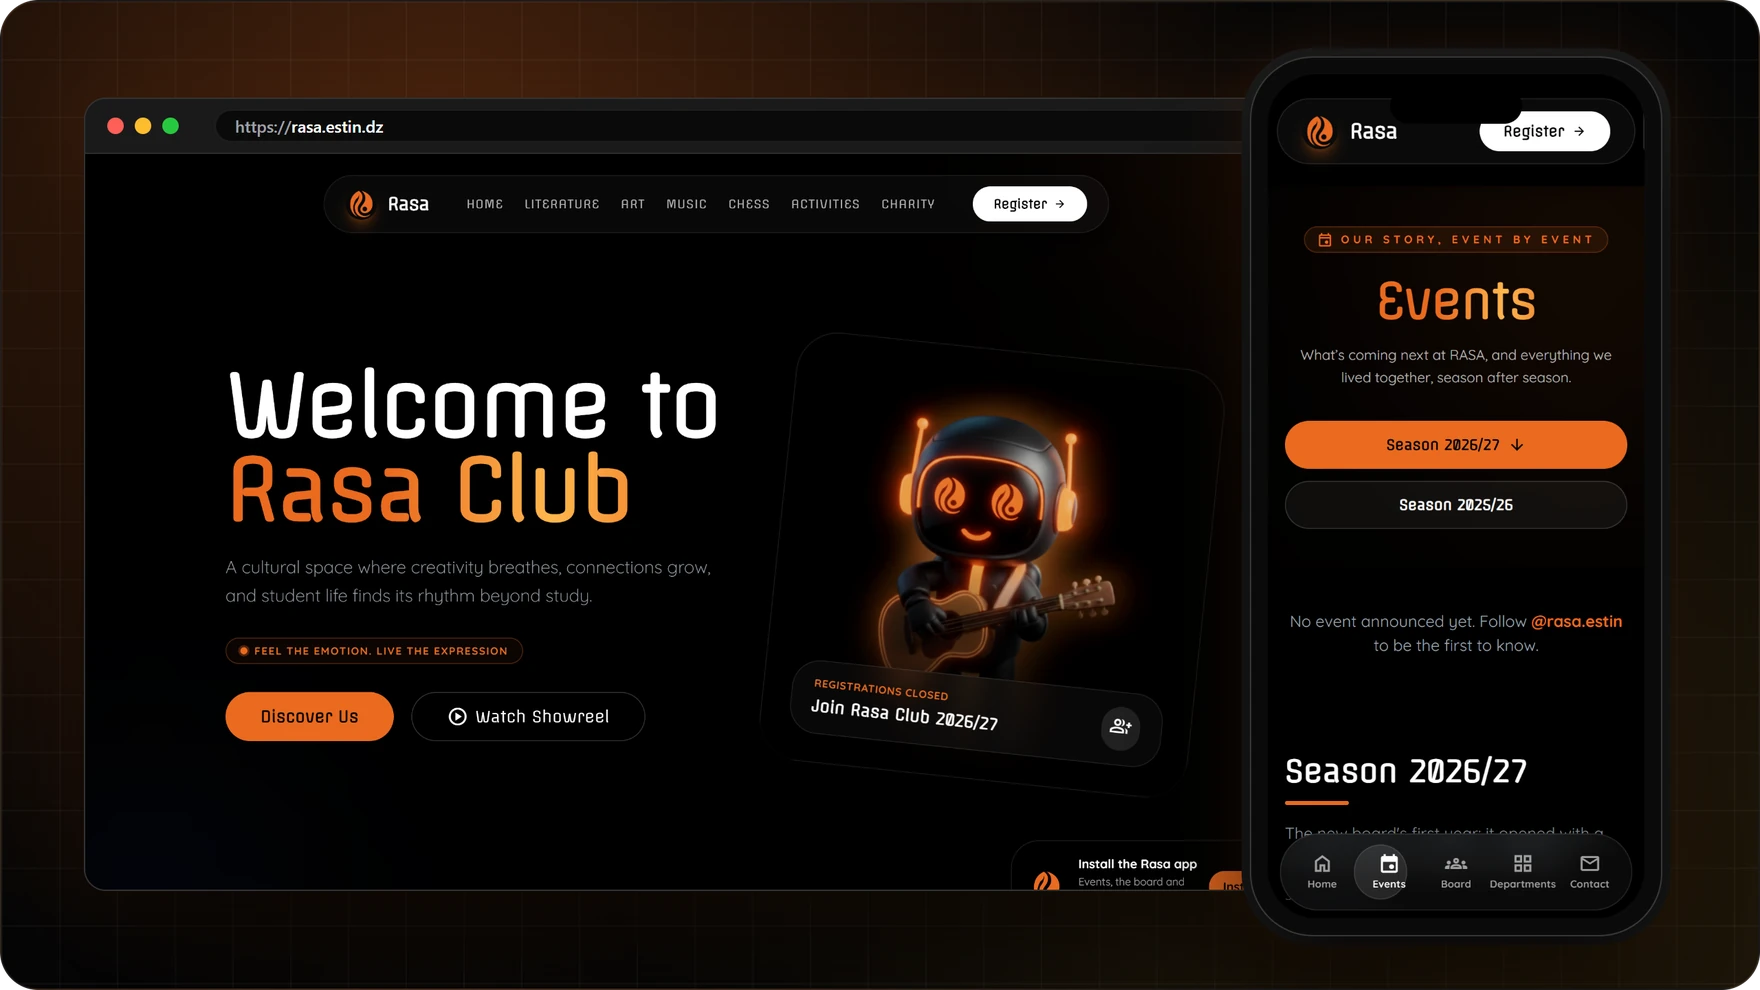
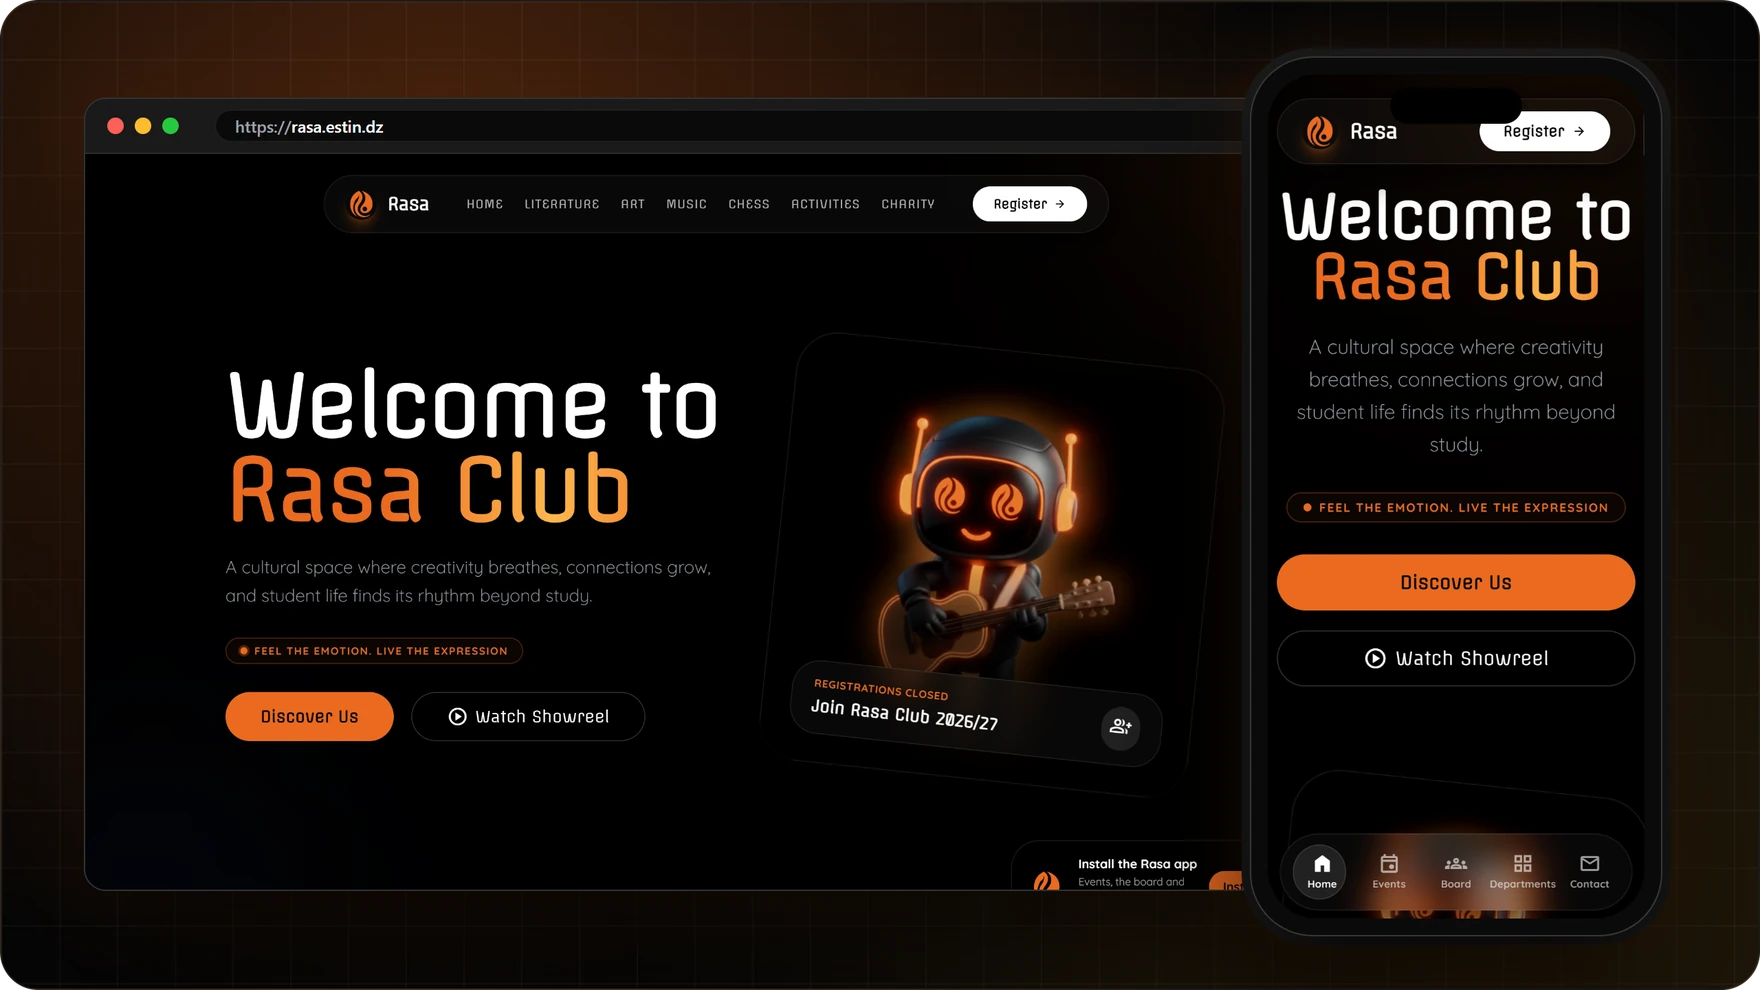
chore(readme): update mobile mockup in preview asset to landing page hero

Changed region(s): [[0.7188, 0.1818, 0.9375, 0.697], [0.75, 0.8182, 0.9062, 0.9394], [0.7188, 0.7576, 0.875, 0.8182]]

diff --git a/.github/assets/src/preview.html b/.github/assets/src/preview.html
@@ -1,5 +1,5 @@
 <!doctype html>
-<!-- README preview: the homepage on desktop and the events page on a phone.
+<!-- README preview: the homepage on desktop and on a phone.
      Rendered to ../preview.webp by scripts/render-readme-assets.py, from the screenshots in shots/. -->
 <html lang="en">
 <head>

diff --git a/scripts/render-readme-assets.py b/scripts/render-readme-assets.py
@@ -77,7 +77,7 @@ def main() -> None:
     shoot(f"{SITE}/", SRC / "shots" / "desktop.png", 1440, 900)
     # phone: an exact 390 px frame inside a 500 px window, then cropped to the frame
     mobile = SRC / "shots" / "mobile.png"
-    shoot(f"{SITE}/.github/assets/src/shot-frame.html?u=/events&w=390&h=844", mobile, 500, 844, mobile=True)
+    shoot(f"{SITE}/.github/assets/src/shot-frame.html?u=/&w=390&h=844", mobile, 500, 844, mobile=True)
     Image.open(mobile).crop((0, 0, 390 * 2, 844 * 2)).save(mobile)
 
     print("README images")

diff --git a/README.md b/README.md
@@ -42,7 +42,7 @@ page, and vanilla JavaScript, with no framework. It is served by **Vercel** with
 makes it installable and keeps it working offline.
 
 <div align="center">
-  <img src=".github/assets/preview.webp" alt="The Rasa homepage on a desktop browser and the events page on a phone" width="100%">
+  <img src=".github/assets/preview.webp" alt="The Rasa homepage on a desktop browser and on a phone" width="100%">
 </div>
 
 <br>
